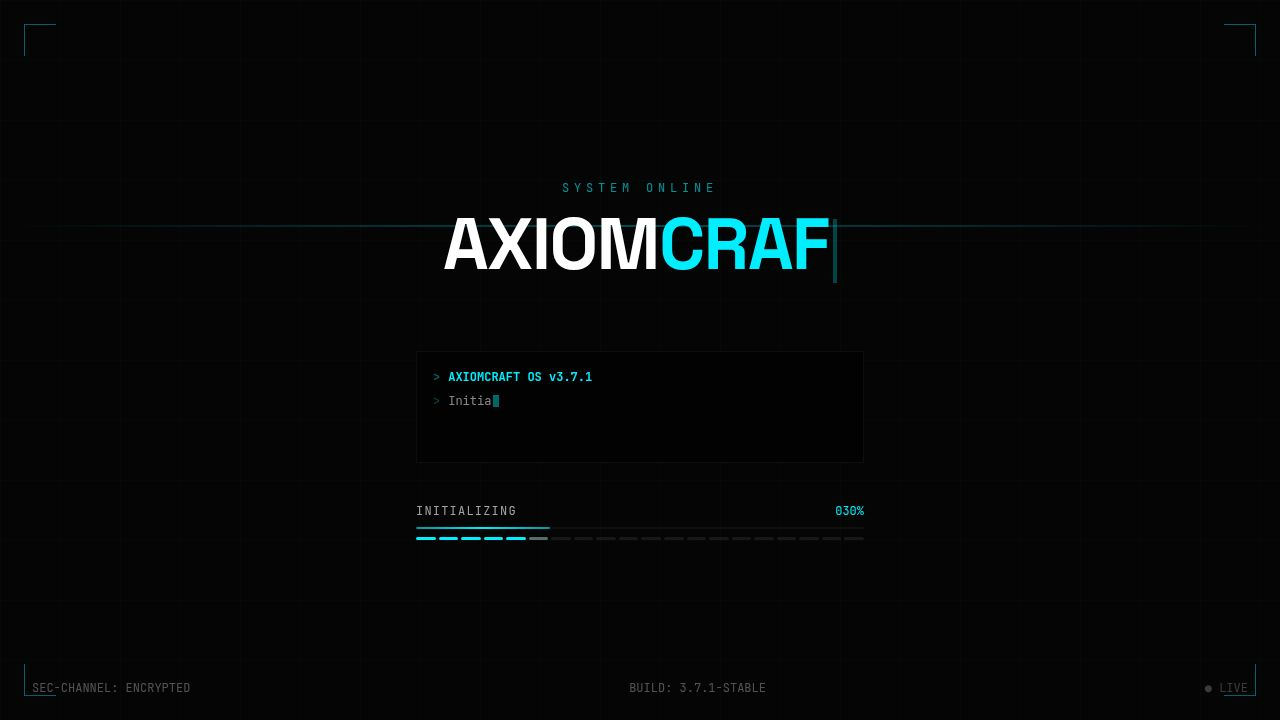
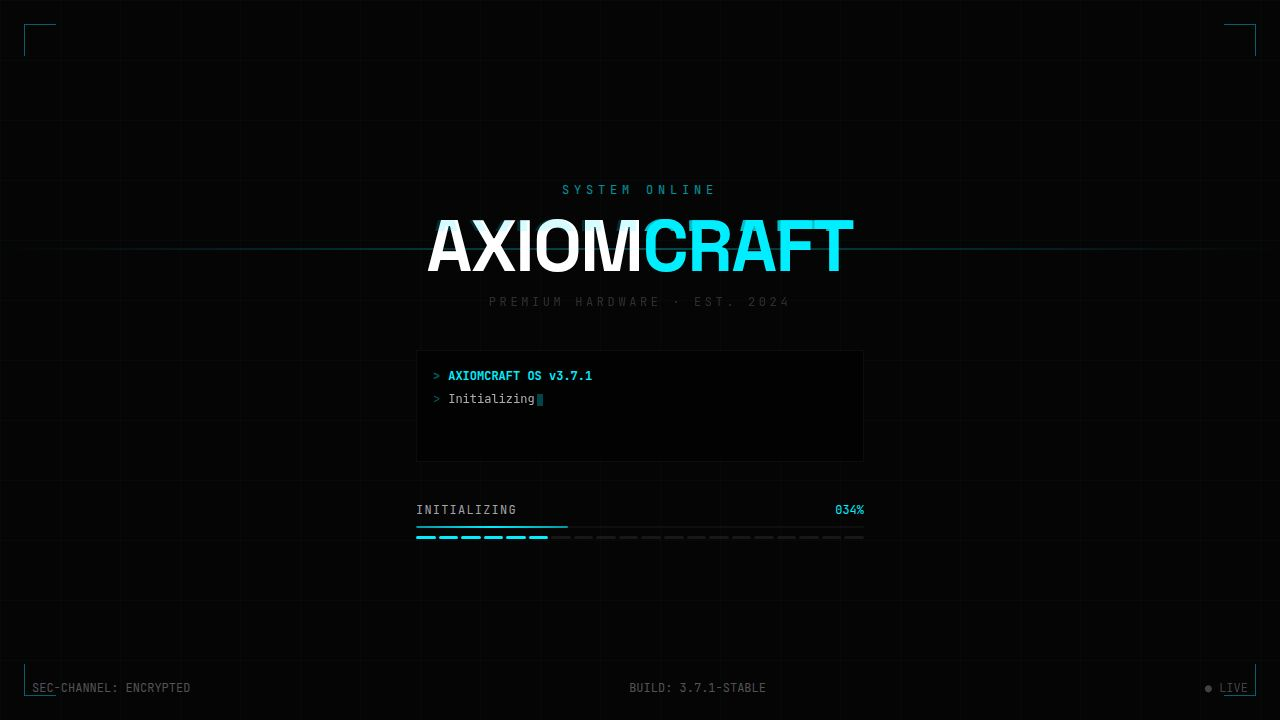
Update product sorting to a custom dropdown interface
Replace the native select element for product sorting with a custom, animated dropdown component, including an effect to close it when clicking outside.

Replit-Commit-Author: Agent
Replit-Commit-Session-Id: f17457ad-cd9e-4fc2-aa0b-cf1cf5d885d8
Replit-Commit-Checkpoint-Type: full_checkpoint
Replit-Commit-Event-Id: 4e0abb54-af1e-4c11-8133-1a66b043a49c
Replit-Commit-Screenshot-Url: https://storage.googleapis.com/screenshot-production-us-central1/654e1f1f-9ac8-467c-bb58-3109c2e902f2/f17457ad-cd9e-4fc2-aa0b-cf1cf5d885d8/4VpKyKq
Replit-Helium-Checkpoint-Created: true

diff --git a/artifacts/axiomcraft/src/pages/Products.tsx b/artifacts/axiomcraft/src/pages/Products.tsx
@@ -1,4 +1,4 @@
-import { useState, useEffect } from "react";
+import { useState, useEffect, useRef } from "react";
 import { useLocation } from "react-router-dom";
 import { Layout } from "@/components/layout/Layout";
 import { useListProducts, useListCategories } from "@workspace/api-client-react";
@@ -9,6 +9,13 @@ import { motion, AnimatePresence } from "framer-motion";
 type SortOption = "newest" | "price_asc" | "price_desc" | "name_asc";
 
 const SORT_OPTIONS: SortOption[] = ["newest", "price_asc", "price_desc", "name_asc"];
+
+const SORT_LABELS: Record<SortOption, string> = {
+  newest: "Newest First",
+  price_asc: "Price: Low → High",
+  price_desc: "Price: High → Low",
+  name_asc: "Name: A → Z",
+};
 
 function isSortOption(value: string): value is SortOption {
   return (SORT_OPTIONS as string[]).includes(value);
@@ -78,6 +85,8 @@ export default function Products() {
   const [category, setCategory] = useState<string | undefined>(initialCategory);
   const [inStockOnly, setInStockOnly] = useState(false);
   const [sortBy, setSortBy] = useState<SortOption>("newest");
+  const [sortOpen, setSortOpen] = useState(false);
+  const sortRef = useRef<HTMLDivElement>(null);
   const [selectedSockets, setSelectedSockets] = useState<string[]>([]);
   const [selectedFormFactors, setSelectedFormFactors] = useState<string[]>([]);
   const [selectedWattages, setSelectedWattages] = useState<string[]>([]);
@@ -89,6 +98,16 @@ export default function Products() {
     const params = new URLSearchParams(location.search);
     setCategory(params.get("category") || undefined);
   }, [location.search]);
+
+  useEffect(() => {
+    const handler = (e: MouseEvent) => {
+      if (sortRef.current && !sortRef.current.contains(e.target as Node)) {
+        setSortOpen(false);
+      }
+    };
+    document.addEventListener("mousedown", handler);
+    return () => document.removeEventListener("mousedown", handler);
+  }, []);
 
   const { data: categoriesData } = useListCategories();
 
@@ -326,20 +345,40 @@ export default function Products() {
               )}
             </button>
 
-            <div className="flex items-center gap-2 border border-border bg-card rounded-sm px-3 py-2">
-              <SlidersHorizontal className="w-4 h-4 text-muted-foreground" />
-              <select
-                value={sortBy}
-                onChange={(e) => {
-                  if (isSortOption(e.target.value)) setSortBy(e.target.value);
-                }}
-                className="bg-transparent text-sm font-mono uppercase text-foreground focus:outline-none cursor-pointer appearance-none pr-4"
+            <div ref={sortRef} className="relative">
+              <button
+                onClick={() => setSortOpen((o) => !o)}
+                className="flex items-center gap-2 border border-border bg-card rounded-sm px-3 py-2 font-mono text-sm uppercase text-foreground hover:border-primary/50 transition-colors"
               >
-                <option value="newest">Newest First</option>
-                <option value="price_desc">Price: High to Low</option>
-                <option value="price_asc">Price: Low to High</option>
-                <option value="name_asc">Name: A to Z</option>
-              </select>
+                <SlidersHorizontal className="w-4 h-4 text-muted-foreground" />
+                <span>{SORT_LABELS[sortBy]}</span>
+                <ChevronDown className={`w-4 h-4 text-muted-foreground transition-transform duration-200 ${sortOpen ? "rotate-180" : ""}`} />
+              </button>
+              <AnimatePresence>
+                {sortOpen && (
+                  <motion.div
+                    initial={{ opacity: 0, y: -4 }}
+                    animate={{ opacity: 1, y: 0 }}
+                    exit={{ opacity: 0, y: -4 }}
+                    transition={{ duration: 0.12 }}
+                    className="absolute right-0 top-full mt-1 z-50 min-w-[180px] bg-card border border-border rounded-sm shadow-lg overflow-hidden"
+                  >
+                    {SORT_OPTIONS.map((opt) => (
+                      <button
+                        key={opt}
+                        onClick={() => { setSortBy(opt); setSortOpen(false); }}
+                        className={`w-full text-left px-4 py-2.5 font-mono text-sm uppercase transition-colors ${
+                          sortBy === opt
+                            ? "bg-primary/10 text-primary"
+                            : "text-foreground hover:bg-muted/50"
+                        }`}
+                      >
+                        {SORT_LABELS[opt]}
+                      </button>
+                    ))}
+                  </motion.div>
+                )}
+              </AnimatePresence>
             </div>
           </div>
         </div>